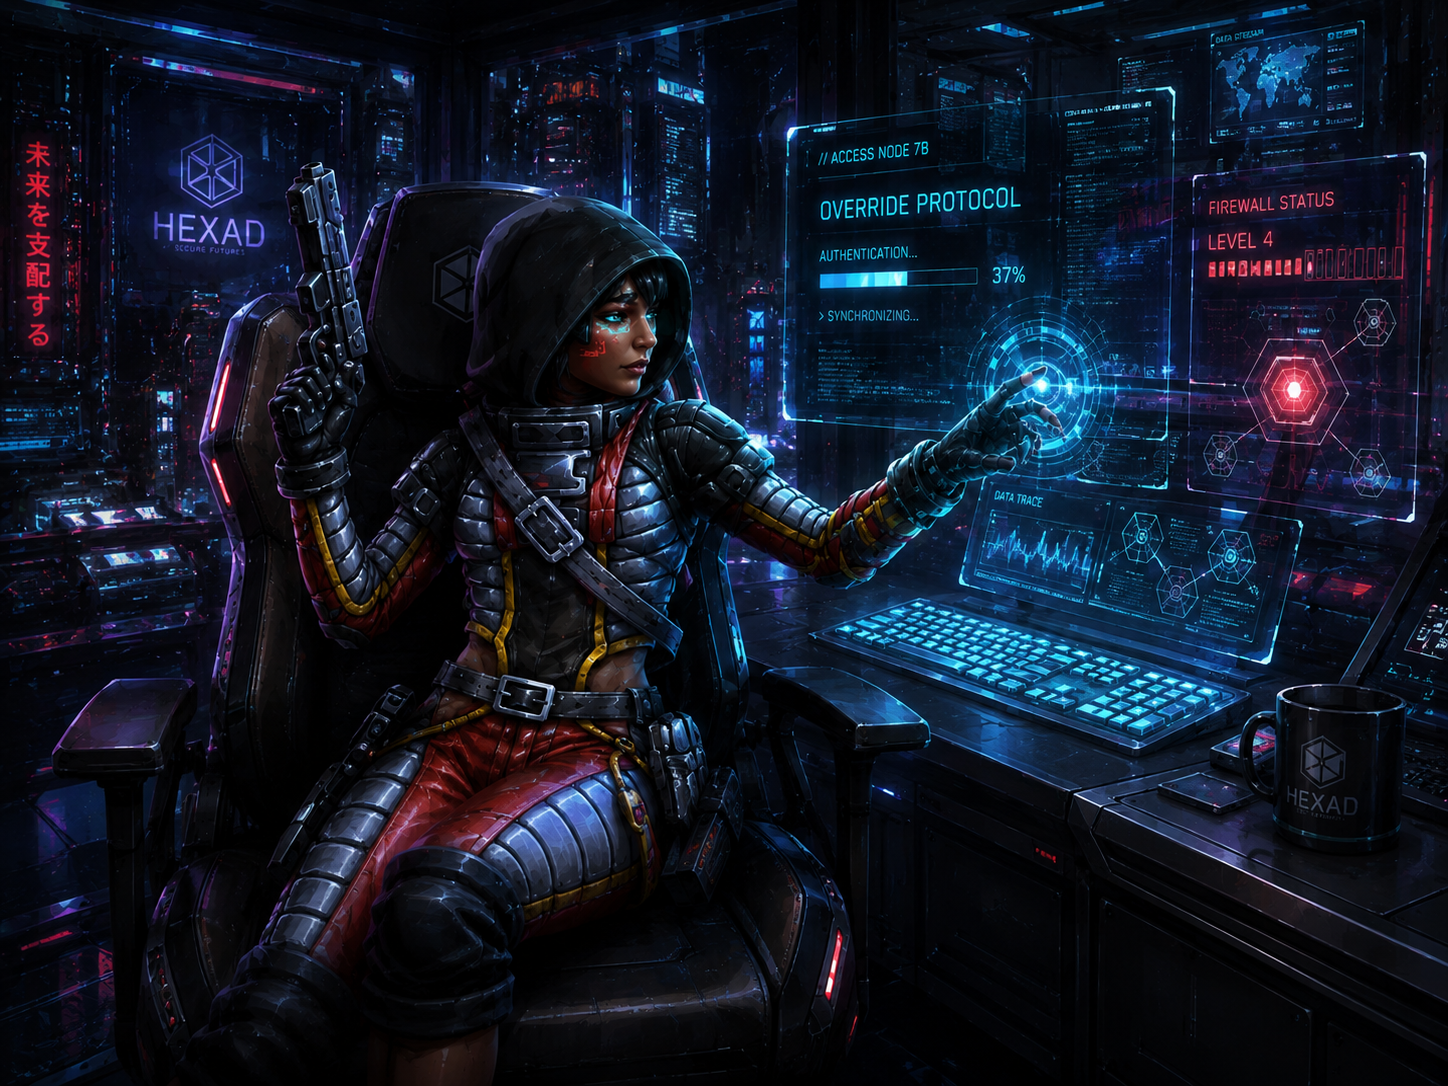
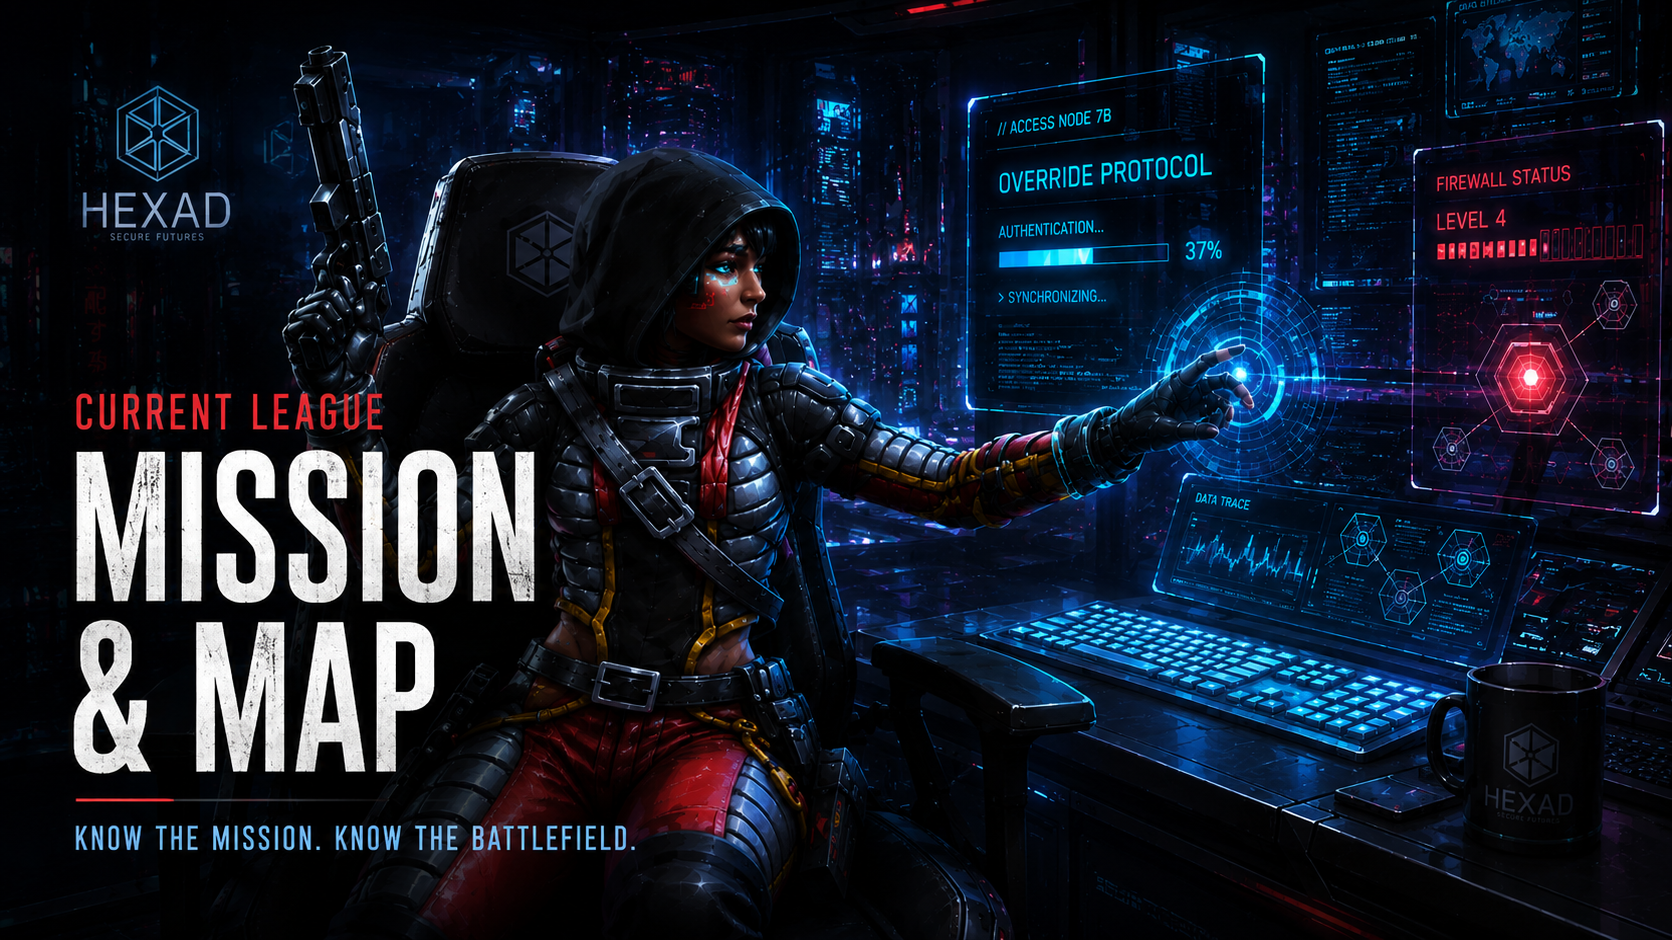
Replace Mission Map hero artwork

diff --git a/lobo-infinity-portal/src/public/SnapshotPublicApp.tsx b/lobo-infinity-portal/src/public/SnapshotPublicApp.tsx
@@ -237,7 +237,7 @@ function HallOfFame(){const stats=useSnapshotData<PublicStatistics[]>('statistic
 
 function ArmyLists(){const state=useSnapshotData<PublicArmyList[]>('army-lists');return <DataGate states={[state]}>{()=><Page title="Army Lists" eyebrow="Public submitted lists"><div className="table-wrapper"><table><thead><tr><th>Player</th><th>Faction</th><th>Mission</th><th>Opponent</th><th>Result</th><th>List</th></tr></thead><tbody>{state.data!.map(l=><tr key={l.id}><td>{l.playerDisplayName||l.player}</td><td>{l.sectorial||l.faction}</td><td>{l.mission}</td><td>{l.opponentDisplayName||l.opponent}</td><td>{l.result}</td><td>{l.armyLink?<a href={l.armyLink} rel="noreferrer" target="_blank">Open</a>:'—'}</td></tr>)}</tbody></table></div></Page>}</DataGate>}
 function Schedule(){const state=useSnapshotData<PublicSchedule[]>('schedule');return <DataGate states={[state]}>{()=>{const s=state.data![0];return <Page title="Schedule / Mission & Map" eyebrow={s?.currentSeason||'League Operations'}><MetricGrid items={[['Event',s?.eventName||'—'],['League Week',s?.weekNumber||'—'],['Updated',formatDate(s?.updatedAt||'')]]}/><Panel title="Missions"><CardGrid>{(s?.missions??[]).map(m=><article className="snapshot-card" key={m.mission}><h3>{m.mission}</h3><p>{m.maps?.join(' · ')||'Map assignment pending'}</p></article>)}</CardGrid></Panel></Page>}}</DataGate>}
-function LeagueOperations(){const state=useSnapshotData<PublicSchedule[]>('schedule');return <DataGate states={[state]}>{()=>{const source=state.data!.find(item=>item.eventId==='event-current-league')??state.data![0];const missions=source?.missions.slice(0,2)??[];return <main className="portal-shell snapshot-public-page snapshot-league-operations" data-page="league-operations"><header className="snapshot-league-operations-hero" aria-labelledby="league-operations-hero-title"><div className="snapshot-league-operations-hero-copy"><p>Current League</p><h1 id="league-operations-hero-title">Mission &amp; Map</h1><span>Know the mission. Know the battlefield.</span></div></header><section className="snapshot-league-operations-strip" aria-label="Current League mission period"><span>{source?.eventName||'Current League'}</span><span>{formatLeagueOperationsWeek(source?.weekNumber||'')}</span><span>Updated {formatLeagueOperationsUpdatedAt(source?.updatedAt||'')}</span></section><section className="snapshot-league-operations-missions" aria-label="Active League missions">{missions.map(mission=><article className="snapshot-league-operations-mission" key={mission.mission}><p className="eyebrow">Active Mission</p><h1>{mission.mission||'Mission pending'}</h1><p>Maps: {mission.maps?.join(' · ')||'Map assignment pending'}</p></article>)}</section></main>}}</DataGate>}
+function LeagueOperations(){const state=useSnapshotData<PublicSchedule[]>('schedule');return <DataGate states={[state]}>{()=>{const source=state.data!.find(item=>item.eventId==='event-current-league')??state.data![0];const missions=source?.missions.slice(0,2)??[];return <main className="portal-shell snapshot-public-page snapshot-league-operations" data-page="league-operations"><header className="snapshot-league-operations-hero" role="img" aria-label="Current League Mission and Map"></header><section className="snapshot-league-operations-strip" aria-label="Current League mission period"><span>{source?.eventName||'Current League'}</span><span>{formatLeagueOperationsWeek(source?.weekNumber||'')}</span><span>Updated {formatLeagueOperationsUpdatedAt(source?.updatedAt||'')}</span></section><section className="snapshot-league-operations-missions" aria-label="Active League missions">{missions.map(mission=><article className="snapshot-league-operations-mission" key={mission.mission}><p className="eyebrow">Active Mission</p><h1>{mission.mission||'Mission pending'}</h1><p>Maps: {mission.maps?.join(' · ')||'Map assignment pending'}</p></article>)}</section></main>}}</DataGate>}
 function Community(){const state=useSnapshotData<PublicCommunity[]>('community');return <DataGate states={[state]}>{()=>{const c=state.data![0]??({} as PublicCommunity);return <Page title="Community" eyebrow={c.settings?.discordServerName||'Lobo Infinity League'}><MetricGrid items={[['Streams',c.streams?.length??0],['News',c.news?.length??0],['Timeline Updates',c.timeline?.length??0]]}/><RecordList title="News" records={c.news}/><RecordList title="Streams" records={c.streams}/><RecordList title="Timeline" records={c.timeline}/></Page>}}</DataGate>}
 type PublicStream = { date: string; division: string; mission: string; player1: string; player2: string; title: string; youtubeUrl: string }
 function getYouTubeThumbnailUrl(value:string){try{const url=new URL(value);const host=url.hostname.toLowerCase().replace(/^www\./,'');const id=host==='youtu.be'?url.pathname.split('/').filter(Boolean)[0]:(host==='youtube.com'||host.endsWith('.youtube.com'))?(url.searchParams.get('v')||url.pathname.match(/^\/(?:embed|shorts)\/([^/?]+)/)?.[1]||''):'';return /^[A-Za-z0-9_-]{11}$/.test(id)?`https://i.ytimg.com/vi/${id}/hqdefault.jpg`:''}catch{return ''}}

diff --git a/lobo-infinity-portal/src/public/SnapshotPublicApp.css b/lobo-infinity-portal/src/public/SnapshotPublicApp.css
@@ -2678,10 +2678,6 @@ main.snapshot-public-page[data-page="league-operations"] {
 }
 
 main.snapshot-public-page[data-page="league-operations"] > .snapshot-league-operations-hero {
-  position: relative;
-  display: flex;
-  align-items: flex-end;
-  justify-content: flex-end;
   width: 100%;
   min-height: 0;
   aspect-ratio: 1536 / 740;
@@ -2694,47 +2690,6 @@ main.snapshot-public-page[data-page="league-operations"] > .snapshot-league-oper
   background-repeat: no-repeat;
   background-size: cover;
   box-shadow: 0 16px 36px rgba(0, 0, 0, 0.42), 0 0 0 1px rgba(193, 18, 31, 0.1);
-}
-
-main.snapshot-public-page[data-page="league-operations"] .snapshot-league-operations-hero-copy {
-  position: relative;
-  z-index: 1;
-  width: min(29vw, 25rem);
-  margin: 0 clamp(1rem, 3.2vw, 2.6rem) clamp(0.95rem, 2.3vw, 1.85rem) 0;
-  padding: 0.7rem 0 0.7rem clamp(0.9rem, 1.7vw, 1.35rem);
-  border-left: 3px solid #d93140;
-  background: linear-gradient(90deg, rgba(4, 9, 14, 0.94), rgba(4, 9, 14, 0.54) 72%, transparent);
-  color: #f8fbff;
-  text-align: left;
-  text-shadow: 0 2px 14px rgba(0, 0, 0, 0.9);
-}
-
-main.snapshot-public-page[data-page="league-operations"] .snapshot-league-operations-hero-copy p,
-main.snapshot-public-page[data-page="league-operations"] .snapshot-league-operations-hero-copy h1,
-main.snapshot-public-page[data-page="league-operations"] .snapshot-league-operations-hero-copy span {
-  display: block;
-  margin: 0;
-}
-
-main.snapshot-public-page[data-page="league-operations"] .snapshot-league-operations-hero-copy p,
-main.snapshot-public-page[data-page="league-operations"] .snapshot-league-operations-hero-copy span {
-  color: #8ae7ff;
-  font-size: clamp(0.62rem, 0.9vw, 0.76rem);
-  font-weight: 900;
-  letter-spacing: 0.11em;
-  line-height: 1.25;
-  text-transform: uppercase;
-}
-
-main.snapshot-public-page[data-page="league-operations"] .snapshot-league-operations-hero-copy h1 {
-  margin: 0.24rem 0 0.38rem;
-  color: #f8fbff;
-  font-family: "Bebas Neue", Rajdhani, Inter, sans-serif;
-  font-size: clamp(2rem, 3.8vw, 3.75rem);
-  font-weight: 800;
-  letter-spacing: 0.025em;
-  line-height: 0.88;
-  text-transform: uppercase;
 }
 
 main.snapshot-public-page[data-page="league-operations"] .snapshot-league-operations-strip {
@@ -2828,16 +2783,6 @@ main.snapshot-public-page[data-page="league-operations"] .snapshot-league-operat
 }
 
 @media (max-width: 620px) {
-  main.snapshot-public-page[data-page="league-operations"] .snapshot-league-operations-hero-copy {
-    width: min(78%, 23rem);
-    margin: 0 0.85rem 0.85rem auto;
-    padding: 0.64rem 0 0.64rem 0.78rem;
-  }
-
-  main.snapshot-public-page[data-page="league-operations"] .snapshot-league-operations-hero-copy h1 {
-    font-size: clamp(1.8rem, 9vw, 2.65rem);
-  }
-
   main.snapshot-public-page[data-page="league-operations"] .snapshot-league-operations-strip {
     gap: 0.38rem;
     padding: 0.58rem 0.7rem;
